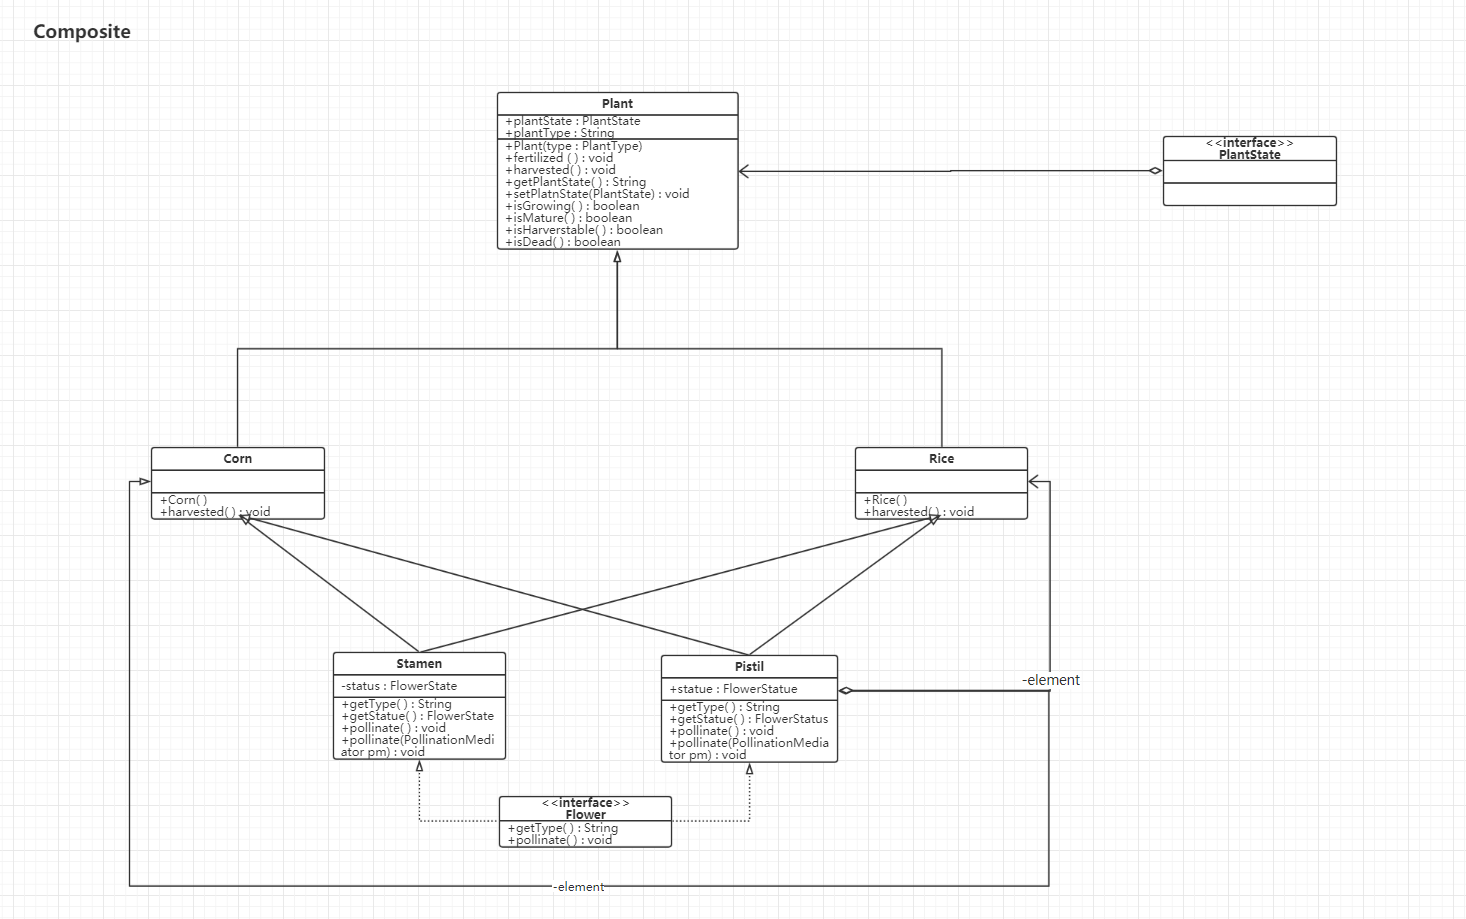
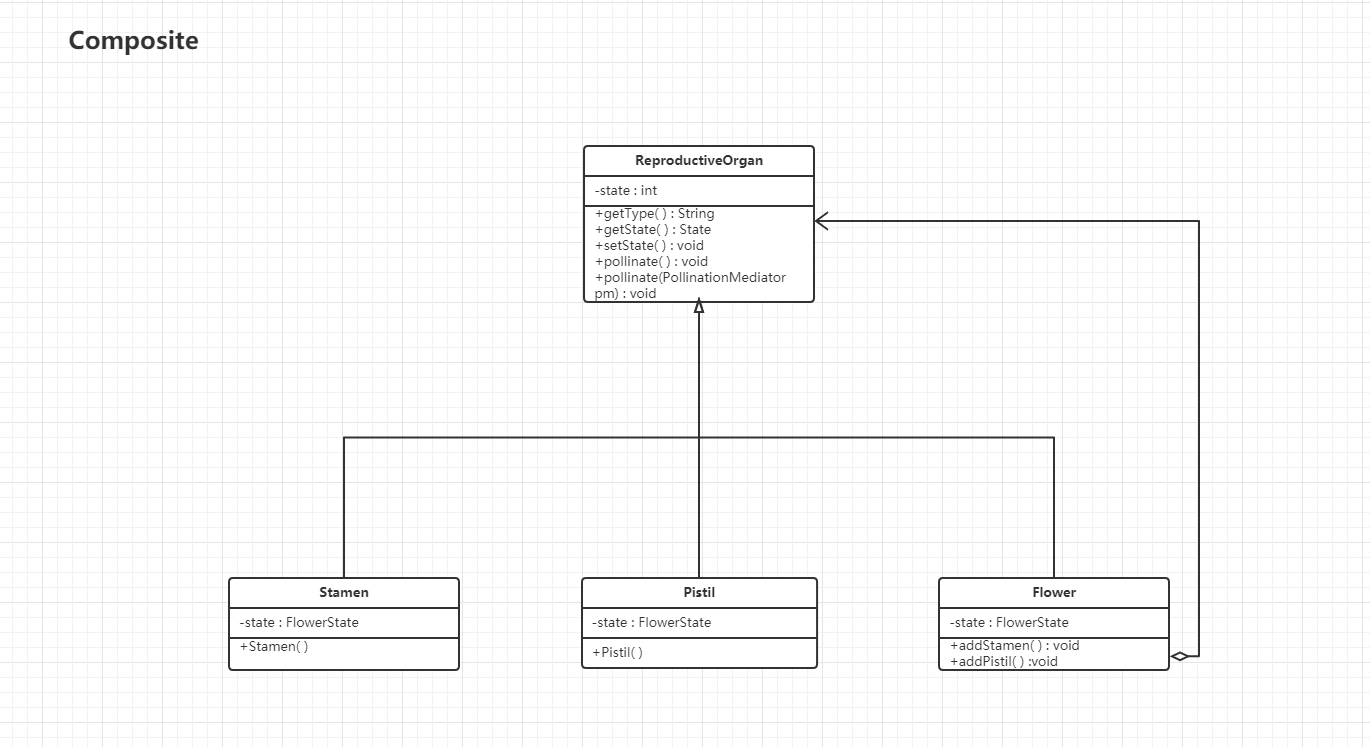
Doc of Plant part

diff --git a/doc/Doc_Plant.md b/doc/Doc_Plant.md
@@ -1,0 +1,166 @@
+## Abstract Factory
+
+	Abstract Factory 模式提供了一个创建一系列相关或相互依赖对象的接口，而无需指定它们具体的类。
+
+	优点：十分便捷的划分了不同产品组。
+
+	缺点：在OCP原则的规范下难以实现产品组内的扩展，但可以实现产品组的扩展。
+
+
+
+### API描述
+
+	场景：我们将该模式运用于植株的种植过程中，PlantFactory实现了AbstractFactory接口，判断输入后可以分别在getRice() ; getCorn() ; getPasture(); 三个具体函数中调用对应类Rice, Corn, Pasture 的构造函数。   
+
+	
+
+### class diagram
+
+![AbstractFactory_p](.\uml_images\Method_or_patterns\AbstractFactory_p.png)
+
+
+
+
+
+## Template Method
+
+	Template Method提供了一种在父类中定义处理流程，在子类中具体实现的处理方式，同时在具体实现时Template Method又允许子类重新定义流程的具体步骤。
+
+	优点：实现了反向控制和OCP原则，既提高了代码的复用性，又可以便捷的扩展子类群（扩展性），实现无限的可能性。
+
+	缺点：虽然提高了代码的复用性，但是每一个不同的实现都需要一个新的子类实现，从而提升了系统的复杂度。
+
+
+
+### API描述
+
+	场景：我们定义了植物的基类Plant，并在Plant中定义了施肥函数fertilized( )。在基类Plant之下我们又具体实现了Rice、Corn、Pasture三种具体子类，并且为每个子类的fertilized( )函数进行了重写，从而为不同植物子类实现了的不同施肥方式。
+
+
+
+### class diagram 
+
+![AbstractFactory_p](.\uml_images\Method_or_patterns\TemplateMethod_p.png)
+
+
+
+
+
+## Composite
+
+	Composite模式属于结构型模式的一种，该模式将对象组合成树形结构，以此来表示对象的“部分-整体”的层次结构。
+
+	优点：提升了代码的复用性；在逻辑上将树结构中的根节点和叶子节点做同化处理，使高层模块的调用更加简单；经过重写基类Component中的行为函数runAction()，可以使单个对象和复杂对象的使用具有一致性；可以自由的增加节点。
+
+	缺点：逻辑会变得更加复杂；叶子节点和根节点都是实现类，而不是接口，违反了依赖倒置原则。
+
+
+
+### API描述
+
+	场景：我们将Composite这一模式使用到了植物授粉这一过程中，定义基类ReproductiveOrgan，子类Flower 和Stamen、Pistil。同时Flower 包含Stamen、Pistil。实现了基本的树状结构。	
+
+
+
+### class diagram
+
+![AbstractFactory_p](.\uml_images\Method_or_patterns\Composite_p.png)
+
+
+
+
+
+
+
+## State 
+
+	State模式允许对象在内部状态发生改变时改变它自身的行为，提供了方便的解决复杂对象状态转换的方法、解决了不同状态下行为的封装问题。
+
+	优点：在逻辑上确定并枚举可能的状态与该状态下对应的行为方法，将状态与行为做逻辑关联，使得高层模块可以直接通过更改状态实现不同行为的选择；多个环境对象可以共享同一个状态模块，实现了代码的复用。
+
+	缺点：在原有的结构基础上增加了不同的状态类与对象类，但在实现方法上得到了精简；对OCP原则不友好，增加新的状态时必不可少的要更改切换状态的源代码。
+
+
+
+### API描述
+
+	我们以PlantState为基本状态接口，为植物类（Plant）设立了四种成长状态：
+
+| 类名             | 描述       |
+| ---------------- | ---------- |
+| GrowingState     | 成长阶段   |
+| MatureState      | 成熟阶段   |
+| HarvestableState | 可收获阶段 |
+| DeadState        | 死亡阶段   |
+
+	四种状态的主要区别在于成长动作moveToNext( ) 方法，同一株植物在不同的成长阶段会有不同的成长方法，如在GrowingState下该方法将会在收到成长命令后输出成长成功的提示，并且重置当前植株的成长状态。
+
+
+
+### class diagram
+
+![AbstractFactory_p](.\uml_images\Method_or_patterns\State.png)
+
+
+
+
+
+
+
+## Strategy
+
+	Strategy模式定义并封装一系列算法，由具体对象根据场景选择不同的策略，从而调用到对应的不同算法。
+
+	优点：分离具体的算法和客户端，使得客户端可以自由切换算法，算法也可以独立于客户端自由进行更改；避免在同一算法中出现大量的条件判断，而是将原本逻辑复杂的算法拆分成多个结构相对简单的独立算法；算法可扩展性良好。
+
+	缺点：在结构框架中需要实例化每一个新的策略类，且需要对外暴露所有的策略，复杂化了结构。
+
+	
+
+### API描述
+
+	我们为植物提供了多种受粉方式，如自然传粉和人工授粉，分别对应的策略类为SpontaneousPollination和ArtificialPollination。继承自Mediator 的类PollinationMediator将会根据action 的不同，选择不同的策略来为对应植株进行授粉操作。
+
+
+
+### class diagram
+
+![AbstractFactory_p](.\uml_images\Method_or_patterns\Strategy.png)
+
+
+
+
+
+
+
+## Mediator
+
+	Mediator解耦多个同事对象之间的复杂交互关系。创建中介者，每个同时对象都用与中介者的交互来替代原本同事对象之间的交互。反过来client则可以通过中介者统一管理所有对象。	
+
+	优点：解耦多个相似对象之间的复杂交互，从而可以独立的改变他们之间的交互逻辑，从而降低了类结构的复杂度，将多对多模式转化为多对一模式。
+
+	缺点：原本的同事对象之间交互越复杂，中介者的逻辑就会越复杂。
+
+
+
+### API描述
+
+	我们将中介者模式运用到了植物自然传粉这一行为体系中，在自然传粉的过程中，植物群体之间的雌蕊（Pistil类）与雄蕊（Stamen类）将会直接与中介者（PollinationMediator类）进行交互，在逻辑上利用该中介者封装了雄蕊在植物集群中定位某一植株，进而定位某一雌蕊的过程。
+
+
+
+### class diagram
+
+![AbstractFactory_p](.\uml_images\Method_or_patterns\Mediator.png)
+
+
+
+
+
+
+
+
+
+
+
+	
